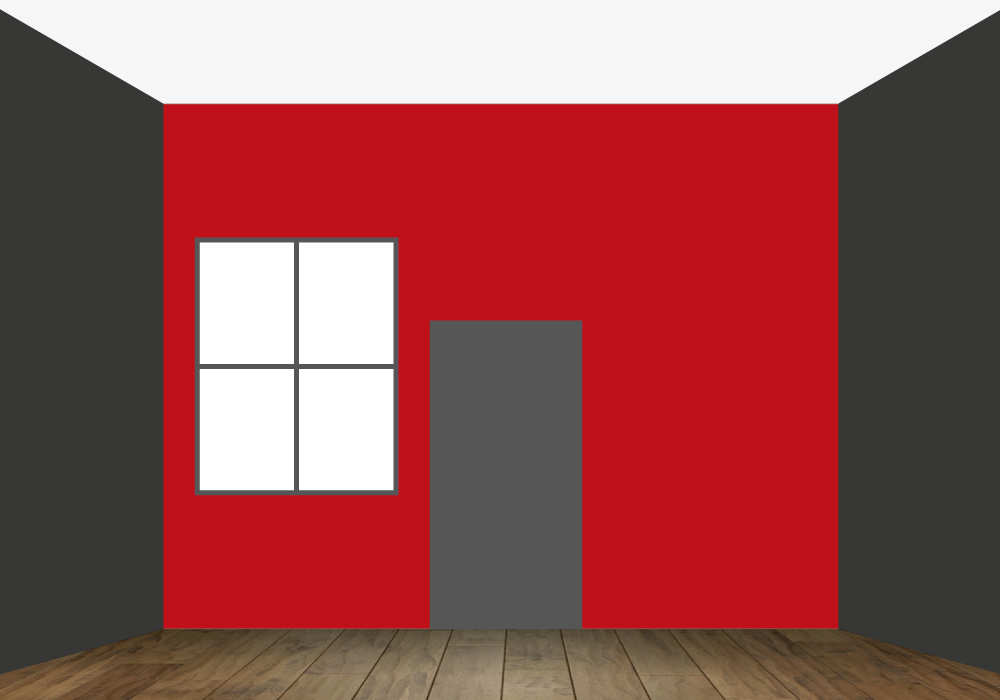
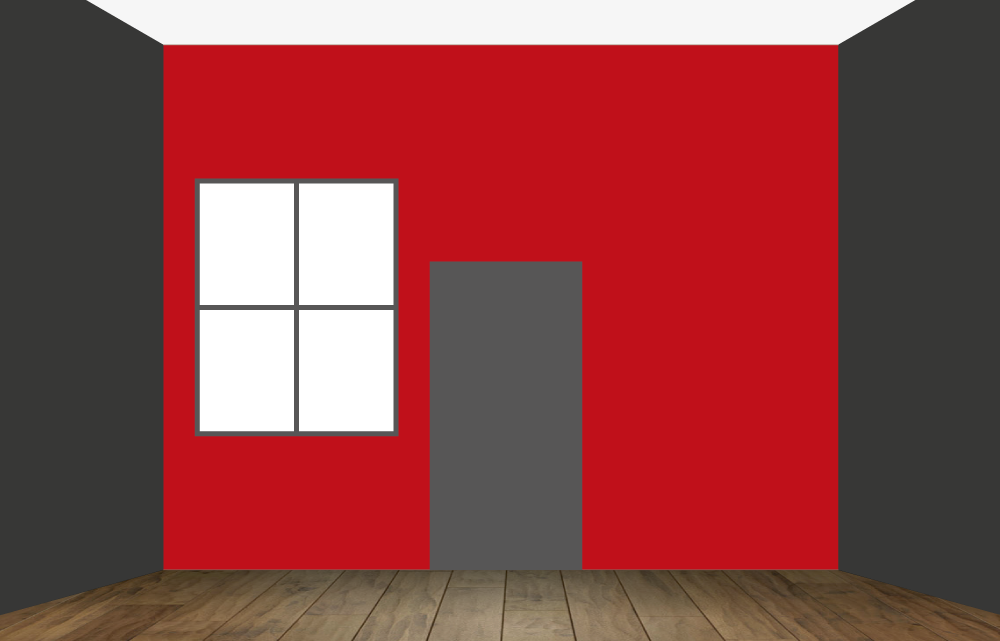
problem resolve

diff --git a/morning-quest-style.css b/morning-quest-style.css
@@ -10,7 +10,8 @@ body{
 #house {
     background: url(images/background-v1.png);
     background-repeat: no-repeat;
-    height: 700px;
+
+    height: 640px;
     width: 1000px;
     display: inline-block;
     position: relative;
@@ -33,7 +34,7 @@ body{
 #home1 {
 	background-color: #292929; 
 	width: 1000px; 
-	height: 350px; 
+	height: 320px; 
 	position: relative;
     z-index: 40;
 }
@@ -41,7 +42,7 @@ body{
 #home2 {
 	background-color: #292929;
 	width: 1000px; 
-	height: 350px; 
+	height: 320px; 
 	position: absolute;
     z-index: 39;
 }
@@ -54,6 +55,11 @@ body{
 .open2{
 	-webkit-animation : home2 2s 1.5s linear forwards;
 }
+
+#figure {
+    margin-top: 330px;
+}
+
 
 #start {
 	width: 400px;
@@ -115,6 +121,7 @@ body{
 	color: #fdb714;
 }  
  
+
 /*COUNT*/
 
 #counter{
@@ -206,9 +213,8 @@ body{
 	width: 50px; 
 
 	position: absolute;
-	top: 600px; 
+	top: 250px; 
 	left: 250px;
-
 }
 
 .pastabox_appear {
@@ -317,7 +323,7 @@ body{
 }
 
 @-webkit-keyframes pastaboxappear {
-    0% { top: 600px; left: 250px; width: 50px;}
+    0% { top: 550px; left: 250px; width: 50px;}
 
     50% { top: 50%; 
         left: 50%;

diff --git a/morning-quest-js.js b/morning-quest-js.js
@@ -33,10 +33,10 @@ var click = function() {
             var open2 = document.getElementsByClassName('open2'); 
             home2.classList.add('open2');
 
-
             var startcounter = document.getElementsByClassName('counter'); 
             counter.classList.add('counter');
 
+            document.getElementById("figure").style.display = "none";
 
             var interval = setInterval(numbers, 1750);
 

diff --git a/morning-quest.html b/morning-quest.html
@@ -25,6 +25,8 @@
         <div id="home2">
         </div>
 
+        <img src="images/silhouette.png" id="figure">
+
         <div id="start" >
 
             <img src="images/Morning-quest-logo.png" id="logo">
